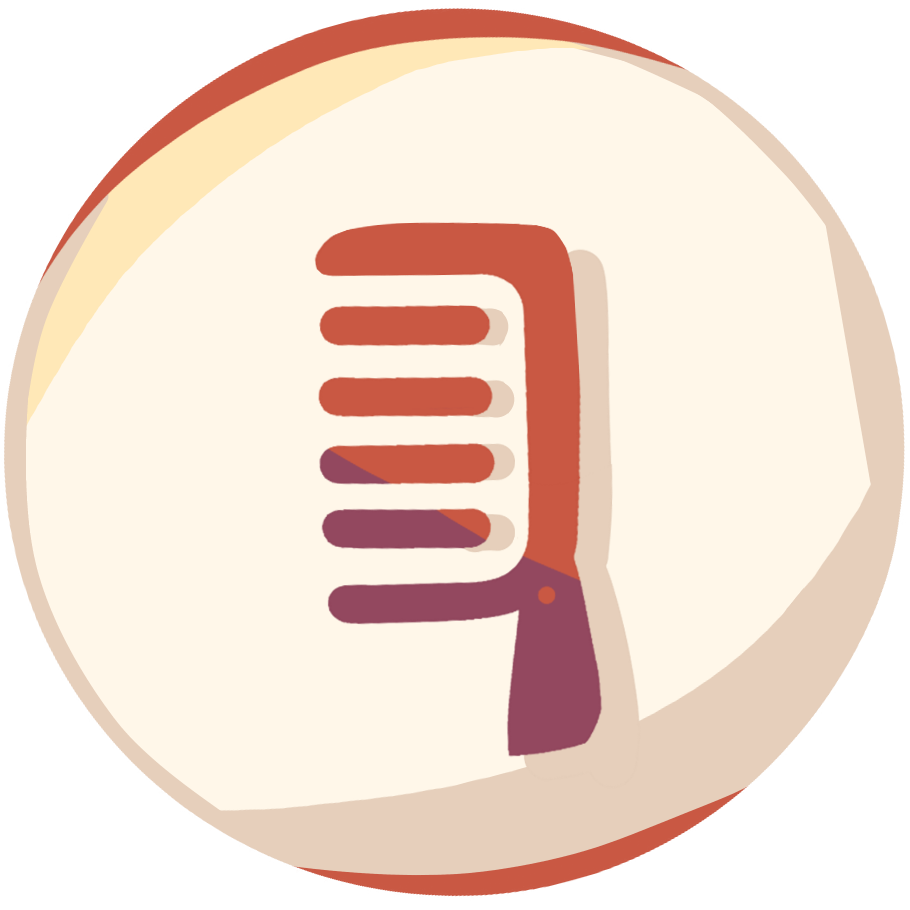
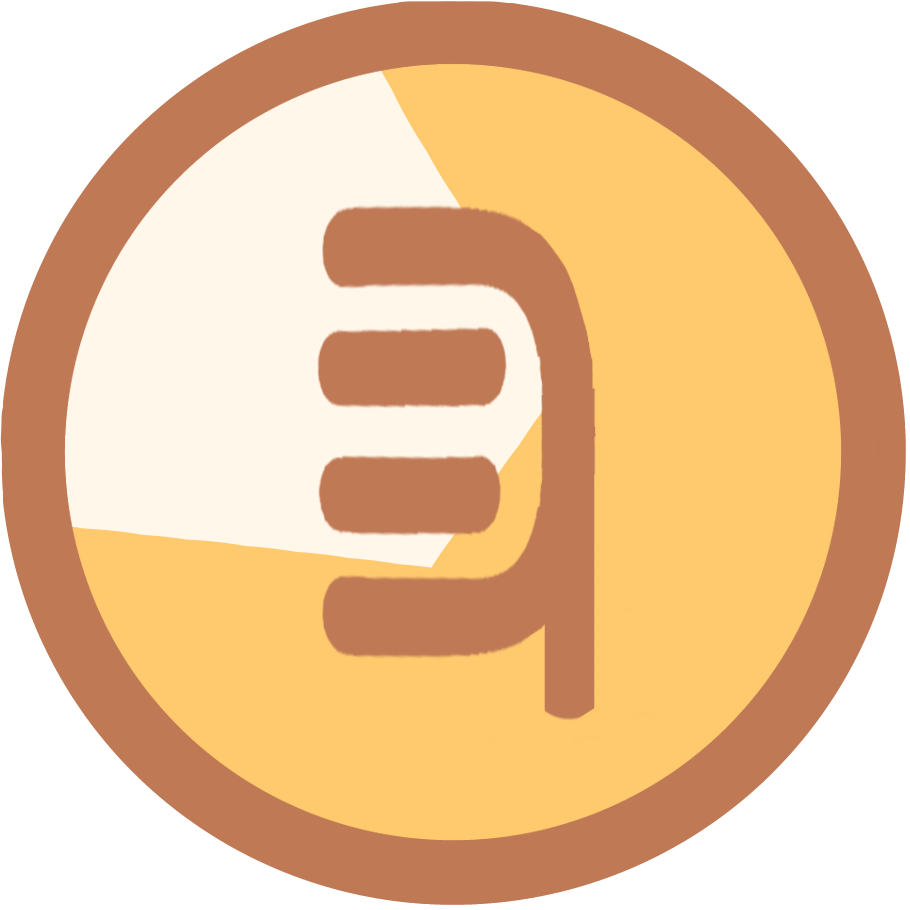
biometric notice

diff --git a/src/components/LiveScanCamera.tsx b/src/components/LiveScanCamera.tsx
@@ -21,7 +21,7 @@
        pipeline goes (the part that returns profile/sessionId/url).
    ════════════════════════════════════════════════════════════════ */
 
-import { useCallback, useEffect, useLayoutEffect, useRef, useState } from 'react';
+import { useCallback, useEffect, useRef, useState } from 'react';
 import type { UserHeadProfile } from '@/types';
 
 /* ── Check model ─────────────────────────────────────────────── */
@@ -77,99 +77,38 @@ export interface LiveScanCameraProps {
 /* ── Upload an Image hover button ───────────────────────────── */
 function UploadImageButton({ onClick, disabled }: { onClick: () => void; disabled: boolean }) {
   const [hovered, setHovered] = useState(false);
-  const btnRef = useRef<HTMLButtonElement>(null);
-  const [dims, setDims] = useState({ w: 0, h: 0 });
-
-  useLayoutEffect(() => {
-    if (!btnRef.current) return;
-    const update = () => {
-      if (!btnRef.current) return;
-      const r = btnRef.current.getBoundingClientRect();
-      setDims({ w: r.width, h: r.height });
-    };
-    update();
-    const ro = new ResizeObserver(update);
-    ro.observe(btnRef.current);
-    return () => ro.disconnect();
-  }, []);
-
-  const BR = 8;
-  const TRACE_INSET = 2;
-  const STROKE_W = 1.5;
-  const rx = Math.max(2, BR - TRACE_INSET);
-  const rw = Math.max(0, dims.w - TRACE_INSET * 2);
-  const rh = Math.max(0, dims.h - TRACE_INSET * 2);
-  const perimeter = dims.w > 0
-    ? 2 * ((rw - 2 * rx) + (rh - 2 * rx)) + 2 * Math.PI * rx
-    : 0;
-
   const isHov = hovered && !disabled;
 
   return (
     <button
-      ref={btnRef}
       type="button"
       onClick={onClick}
       disabled={disabled}
       onMouseEnter={() => setHovered(true)}
       onMouseLeave={() => setHovered(false)}
+      className="font-display"
       style={{
-        position: 'relative',
-        overflow: 'hidden',
-        background: 'none',
         border: 'none',
-        borderRadius: BR,
         cursor: disabled ? 'not-allowed' : 'pointer',
-        padding: '7px 12px',
-        fontFamily: 'var(--font-fraunces), Georgia, serif',
-        fontVariationSettings: "'SOFT' 100, 'WONK' 0, 'opsz' 144",
-        fontWeight: 700,
+        alignSelf: 'center',
+        width: 'fit-content',
+        padding: '9px 19px',
+        borderRadius: 17,
+        background: 'var(--butter, #ffe7b0)',
+        color: 'var(--char, #1a1410)',
         fontSize: 15,
-        letterSpacing: '-0.01em',
-        color: isHov ? 'var(--char)' : 'rgba(255,248,234,0.85)',
+        fontWeight: 600,
+        letterSpacing: '0.01em',
+        lineHeight: 1.3,
+        boxShadow: '0 6px 18px -8px rgba(0, 0, 0, 0.45)',
         opacity: disabled ? 0.38 : 1,
-        transition: 'transform 300ms cubic-bezier(0.34,1.56,0.64,1), color 200ms ease',
+        transformOrigin: 'center',
         transform: isHov ? 'scale(1.06)' : 'scale(1)',
+        transition: 'transform 360ms cubic-bezier(0.16,1,0.3,1)',
         marginTop: 4,
       }}
     >
-      {/* Amber fill — grows from center on hover */}
-      <span aria-hidden style={{
-        position: 'absolute', inset: 0,
-        background: 'rgba(255,232,170,0.93)',
-        clipPath: isHov ? `inset(0% round ${BR}px)` : `inset(50% round ${rx}px)`,
-        transition: 'clip-path 560ms cubic-bezier(0.16,1,0.3,1)',
-        pointerEvents: 'none', zIndex: 0,
-      }} />
-
-      {/* White SVG trace — draws around border on hover */}
-      {perimeter > 0 && (
-        <svg
-          aria-hidden
-          viewBox={`0 0 ${dims.w} ${dims.h}`}
-          style={{
-            position: 'absolute', inset: 0,
-            width: '100%', height: '100%',
-            pointerEvents: 'none', zIndex: 1,
-            filter: isHov ? 'drop-shadow(0 0 4px rgba(255,255,255,0.5))' : undefined,
-            transition: 'filter 200ms ease',
-          }}
-        >
-          <rect
-            x={TRACE_INSET} y={TRACE_INSET}
-            width={rw} height={rh}
-            rx={rx} ry={rx}
-            fill="none"
-            stroke="rgba(255,255,255,0.88)"
-            strokeWidth={STROKE_W}
-            strokeDasharray={perimeter}
-            strokeDashoffset={isHov ? 0 : perimeter}
-            style={{ transition: `stroke-dashoffset ${isHov ? '680ms' : '140ms'} cubic-bezier(0.16,1,0.3,1)` }}
-          />
-        </svg>
-      )}
-
-      <span style={{ position: 'relative', zIndex: 2 }}>Upload an Image</span>
+      Upload an Image
     </button>
   );
 }
@@ -490,16 +429,6 @@ export default function LiveScanCamera({
   const ringTone = allPass ? 'ready' : anyFail ? 'coach' : 'idle';
   const ringColor = ringTone === 'ready' ? 'var(--butter)' : ringTone === 'coach' ? 'var(--tomato)' : 'rgba(255,248,234,0.45)';
 
-  /* first failing check decides the coaching line */
-  const firstIssue = CHECK_ORDER.find(k => checks[k] !== 'pass');
-  const coachLine = !detecting
-    ? (engine === 'booting' ? 'warming up the chair…' : 'line yourself up, then tap the shutter')
-    : allPass
-    ? 'looking sharp — tap the shutter'
-    : firstIssue
-    ? CHECK_META[firstIssue].coach
-    : 'line yourself up…';
-
   /* ════════════════════ RENDER ════════════════════ */
   return (
     <div className="lsc-root">
@@ -554,8 +483,7 @@ export default function LiveScanCamera({
         )}
       </div>
 
-      {/* ── caption + shutter ── */}
-      <p className="lsc-caption font-display" key={coachLine}>{coachLine}</p>
+      {/* ── shutter ── */}
       <div className="lsc-shutter-row">
         <button
           type="button"
@@ -578,9 +506,6 @@ export default function LiveScanCamera({
             onClick={() => fileInputRef.current?.click()}
             disabled={engine === 'booting'}
           />
-          <div className="lsc-upload-hint font-display" role="status">
-            Upload your own selfie if you’d like!
-          </div>
         </div>
       )}
     </div>

diff --git a/src/app/api/biometric/revoke/route.ts b/src/app/api/biometric/revoke/route.ts
@@ -1,0 +1,37 @@
+import { NextResponse } from 'next/server';
+import { ConvexHttpClient } from 'convex/browser';
+import { api } from '@convex/_generated/api';
+import { requireSignedIn } from '@/lib/serverAuth';
+import { deleteManyFromS3 } from '@/lib/s3';
+import { hashIdentifier } from '@/lib/rateLimit';
+
+export async function POST() {
+  const authResult = await requireSignedIn();
+  if (authResult.response) return authResult.response;
+
+  const convexToken = await authResult.session.getToken({ template: 'convex' });
+  if (!convexToken) {
+    return NextResponse.json({ error: 'Convex auth token unavailable' }, { status: 401 });
+  }
+
+  const convex = new ConvexHttpClient(process.env.NEXT_PUBLIC_CONVEX_URL!);
+  convex.setAuth(convexToken);
+
+  try {
+    const result = await convex.mutation(api.users.revokeBiometricConsent, {});
+    await deleteManyFromS3(result.s3Keys);
+
+    console.warn('[biometric-revoke] completed', {
+      user: hashIdentifier(authResult.session.userId),
+      s3KeyCount: result.s3Keys.length,
+    });
+
+    return NextResponse.json({ ok: true, deletedS3Keys: result.s3Keys.length });
+  } catch (err) {
+    console.error('[biometric-revoke] failed', {
+      user: hashIdentifier(authResult.session.userId),
+      error: err instanceof Error ? err.message : String(err),
+    });
+    return NextResponse.json({ error: 'Revoke failed' }, { status: 500 });
+  }
+}

diff --git a/src/app/globals.css b/src/app/globals.css
@@ -2262,41 +2262,6 @@ html.dark .explore-marquee-track {
   position: relative;
   display: flex; flex-direction: column;
 }
-.lsc-upload-hint {
-  position: absolute;
-  top: calc(100% + 9px);   /* below the button */
-  left: 64%;               /* shifted to the right */
-  white-space: nowrap;     /* keep it to a single line */
-  padding: 8px 13px;
-  border-radius: 17px;
-  background: var(--butter, #ffe7b0);
-  color: var(--char, #1a1410);
-  font-size: 11px;
-  font-weight: 600;
-  letter-spacing: 0.01em;
-  line-height: 1.3;
-  text-align: left;
-  box-shadow: 0 6px 18px -8px rgba(0, 0, 0, 0.45);
-  pointer-events: none;
-  opacity: 0;
-  animation: lsc-upload-hint-in 460ms cubic-bezier(0.2, 0.85, 0.2, 1) both;
-  animation-delay: 1500ms;   /* fade in after ~1.5s */
-}
-/* tail poking up out of the bubble's flat top edge (clear of the rounded corners) */
-.lsc-upload-hint::before {
-  content: '';
-  position: absolute;
-  top: -5px; left: 24px;
-  width: 14px; height: 14px;
-  background: inherit;
-  border-top-left-radius: 4px;
-  transform: rotate(45deg);   /* diamond; bottom half tucks behind the bubble so it reads as one shape */
-  z-index: -1;
-}
-@keyframes lsc-upload-hint-in {
-  from { opacity: 0; transform: translateY(7px) scale(0.96); }
-  to   { opacity: 1; transform: translateY(0) scale(1); }
-}
 
 /* ── Live checklist (ScanPopup left panel) ──────────────────────── */
 .lchk-row {

diff --git a/convex/users.ts b/convex/users.ts
@@ -346,7 +346,24 @@ export const revokeBiometricConsent = mutation({
       .withIndex("by_token", (q) => q.eq("tokenIdentifier", identity.tokenIdentifier))
       .unique();
     if (!user) throw new Error("User not found");
+
+    // Revoking consent must delete the raw facial scans (the biometric identifier).
+    // Generated 3D models are kept. The S3 objects themselves are deleted by the
+    // calling API route using the keys returned below (Convex can't reach S3 directly).
+    const s3Keys = new Set<string>();
+    const sessions = await ctx.db
+      .query("sessions")
+      .withIndex("by_user_id", (q) => q.eq("userId", identity.tokenIdentifier))
+      .take(200);
+    for (const session of sessions) {
+      pushKey(s3Keys, session.scanS3Key);
+      pushKey(s3Keys, session.imageUrl);
+      await ctx.db.delete(session._id);
+    }
+
     await ctx.db.patch(user._id, { biometricConsentAt: undefined, biometricConsentVersion: undefined });
+
+    return { s3Keys: [...s3Keys] };
   },
 });
 

diff --git a/src/app/dashboard/page.tsx b/src/app/dashboard/page.tsx
@@ -425,7 +425,6 @@ function ReferralPopup({ referralCode, copied, onCopy, onDismiss }: { referralCo
 function SettingsPopup({ onRescan }: { onRescan: () => void }) {
   const userQuery = useQuery(api.users.getMe);
   const setUsernameMutation = useMutation(api.users.setUsername);
-  const revokeBiometricConsentMutation = useMutation(api.users.revokeBiometricConsent);
   const deleteAccountMutation = useMutation(api.users.deleteCurrentUserData);
   const { theme, renderQuality, language, aiTrainingOptOut, updateTheme, updateRenderQuality, updateLanguage, updateAiTrainingOptOut } = useSettings();
 
@@ -453,7 +452,10 @@ function SettingsPopup({ onRescan }: { onRescan: () => void }) {
   const handleRevokeConsent = async () => {
     setRevokingConsent(true);
     try {
-      await revokeBiometricConsentMutation();
+      // Route through the API so the raw scan S3 objects are actually deleted,
+      // not just the consent flags cleared.
+      const res = await fetch('/api/biometric/revoke', { method: 'POST' });
+      if (!res.ok) throw new Error('revoke failed');
       setConsentRevoked(true);
     } catch { /* non-fatal */ }
     finally { setRevokingConsent(false); }
@@ -609,14 +611,14 @@ function SettingsPopup({ onRescan }: { onRescan: () => void }) {
                 )}
               </div>
               <p className="font-sans text-[11px] leading-snug" style={{ color: 'var(--char)', margin: 0 }}>
-                {userQuery?.biometricConsentVersion ?? 'biometric-notice-2026-06-08'} — facial scan data stored for 3D model generation.
+                {userQuery?.biometricConsentVersion ?? 'biometric-notice-2026-06-08'} — We use your scan only to build your personal 3D model. It's stored securely, never sold or shared, and you can revoke consent and delete it anytime. Please note: if you revoke consent, we will not be able to generate any more models by state law.
               </p>
               {(consentDate && !consentRevoked) && (
                 <BouncyButton onClick={handleRevokeConsent} disabled={revokingConsent} className="font-sans text-[11px] self-start mt-1" style={{ background: 'none', border: '1px solid var(--tomato)', color: 'var(--tomato)', borderRadius: 8, padding: '4px 12px', opacity: revokingConsent ? 0.5 : 1 }}>
                   {revokingConsent ? '…' : 'Revoke consent'}
                 </BouncyButton>
               )}
-              {consentRevoked && <span className="font-sans text-[11px]" style={{ color: 'var(--moss)' }}>✓ Consent revoked. Your scan data will be cleared.</span>}
+              {consentRevoked && <span className="font-sans text-[11px]" style={{ color: 'var(--moss)' }}>✓ Consent revoked. Your facial scans have been deleted.</span>}
             </div>
 
             {/* Download data */}